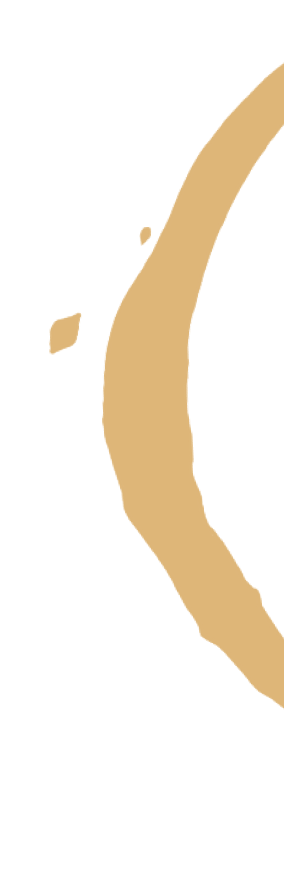
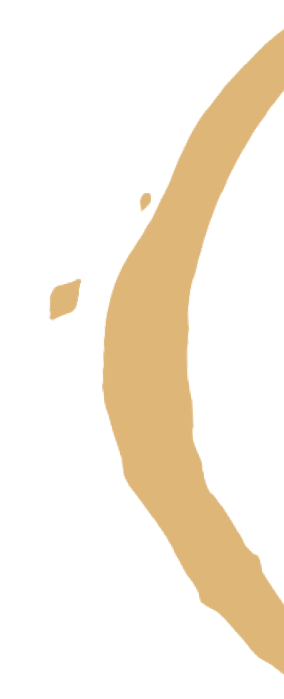
added decorative img

diff --git a/src/components/Footer.js b/src/components/Footer.js
@@ -3,11 +3,13 @@ import Twitter from '../img/twitter-icon.png'
 import Mail from '../img/mail-icon.png'
 import Instagram from '../img/instagram-icon.png'
 import '../css/styles.css'
+import splatTwo from '../img/coffee-stain-two.png'
 
 function Footer (){
     return(
         <>
             <footer className="footer">
+                <div></div>
                 <div className="Center">
                     <ul className="links">
                         <Link to="/"><img className="imgSocial" src={Twitter} style={{textDecoration: "none"}} alt="log in"/></Link>
@@ -15,7 +17,11 @@ function Footer (){
                         <Link to="/"><img className="imgSocial" src={Instagram} style={{textDecoration: "none"}} alt="log in"/></Link>
                     </ul>
                 </div>
+                
             </footer>
+            <div>
+                <img className="stainTwo" src={splatTwo} alt="coffee stain"/>
+            </div>
         </>
     );
 }

diff --git a/src/components/Navbar.js b/src/components/Navbar.js
@@ -3,12 +3,15 @@ import CartWidget from "./CartWidget";
 import Logo from "../img/infuse-logo.png";
 import img from "../img/log-in-icon.png";
 import "../css/styles.css";
+import splatOne from '../img/coffee-stain-one.png'
 
 function Navbar() {
   return (
     <>
       <div className="Wrapper">
-        <div className="Left" />
+        <div className="Left">
+          <img className="stain" src={splatOne} alt="coffee stain"/>
+        </div>
         <div className="Center">
           <Link to="/">
             <img className="logo" src={Logo} alt="logo" />

diff --git a/src/css/styles.css b/src/css/styles.css
@@ -133,6 +133,21 @@ header {
   background-color: #ffffff;
 }
 
+.stain{
+  max-width: 12rem;
+  position: absolute;
+  left:0px;
+  top:0px;
+}
+
+.stainTwo{
+  max-width: 5rem;
+  position: fixed;
+  right:0px;
+  bottom:0px;
+  opacity: 0.7;
+}
+
 header .padding-1 {
   padding-top: 0.5rem;
 }
